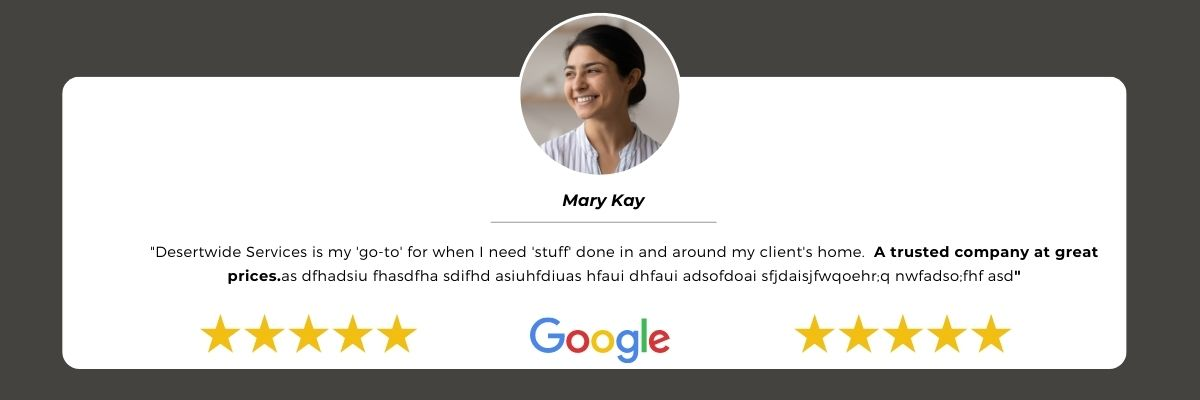
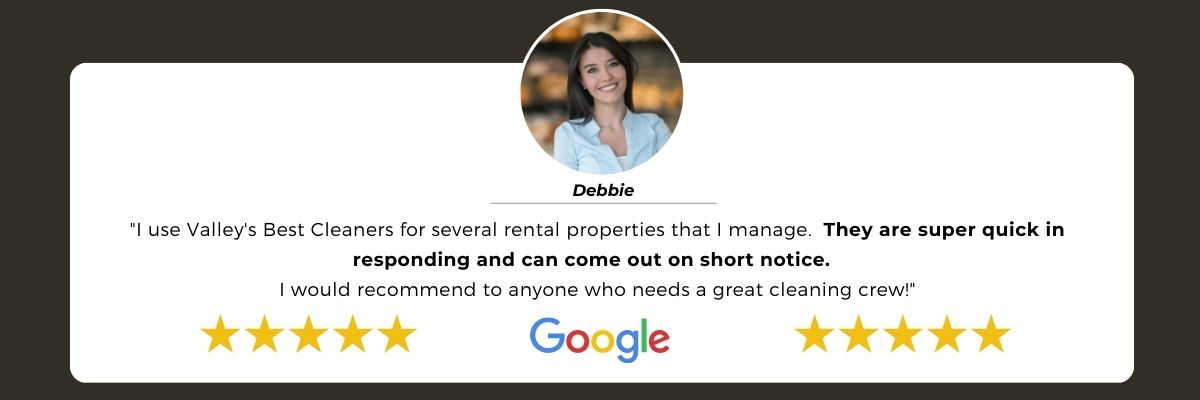
updated carousel and css

diff --git a/src/components/ReviewCarousel.js b/src/components/ReviewCarousel.js
@@ -8,6 +8,7 @@ import {
 } from "reactstrap";
 import reviewCar3 from "../app/assets/img/reviewCar3.jpg";
 import reviewCar from "../app/assets/img/reviewCar.jpg";
+import reviewCar2 from "../app/assets/img/reviewCar2.jpg";
 
 const items = [
   {
@@ -22,12 +23,12 @@ const items = [
     caption: "Slide 2",
     key: 2,
   },
-  //   {
-  //     src: reviewPic,
-  //     altText: "Slide 3",
-  //     caption: "Slide 3",
-  //     key: 3,
-  //   },
+  {
+    src: reviewCar2,
+    altText: "Slide 3",
+    caption: "Slide 3",
+    key: 3,
+  },
 ];
 
 function ReviewCarousel(args) {
